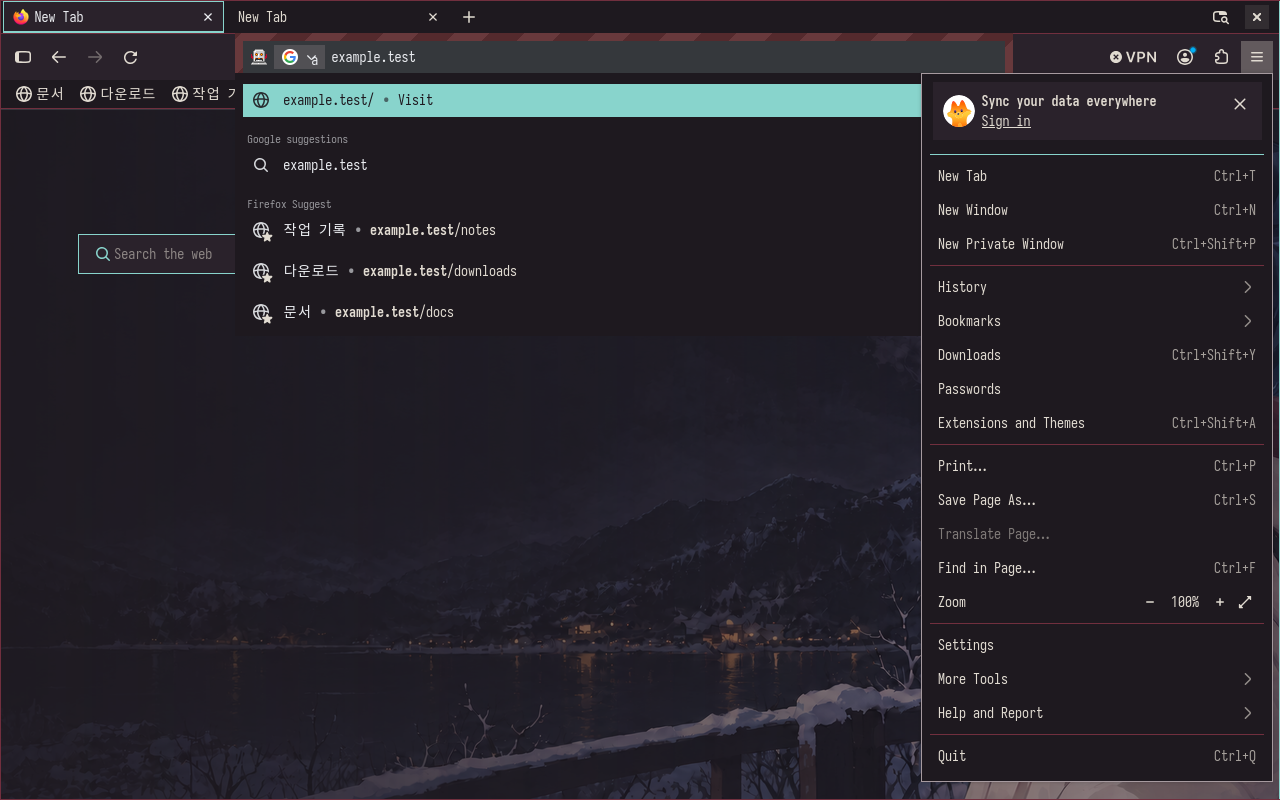
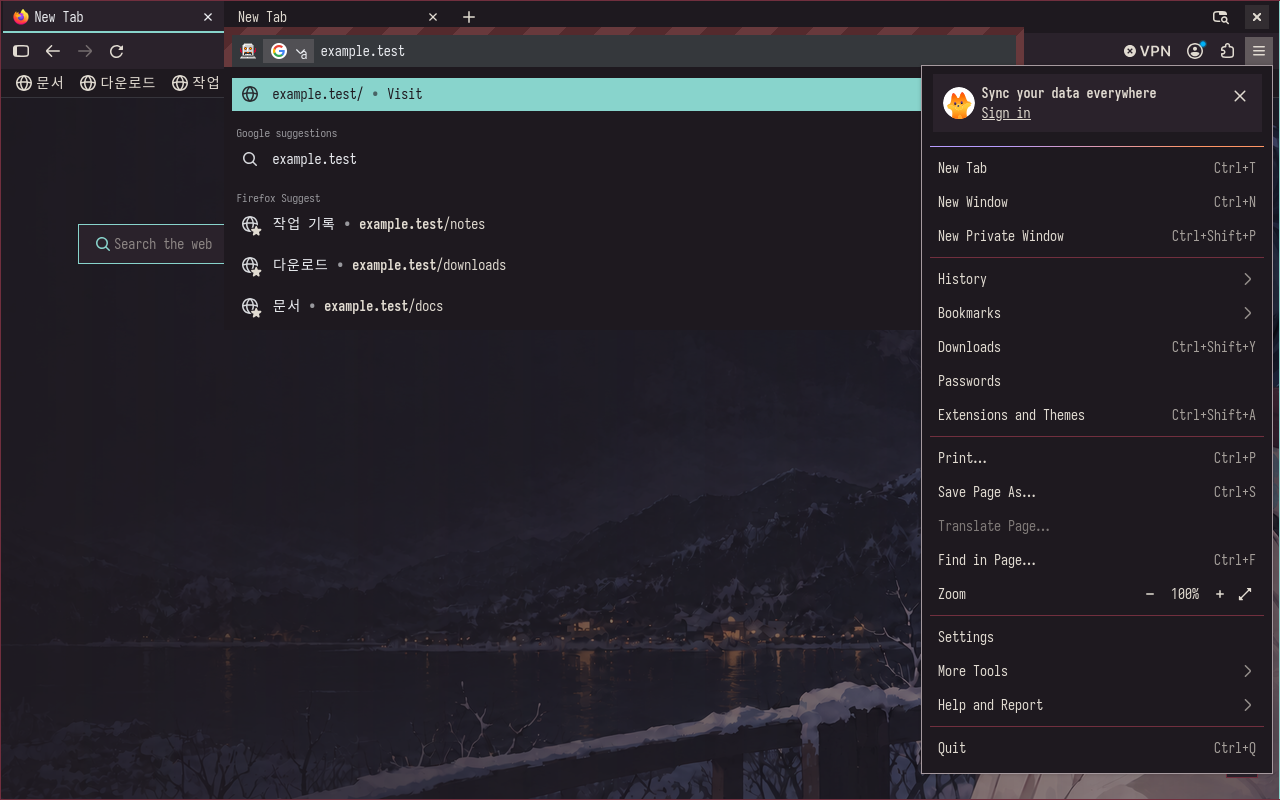
Simplify Firefox chrome borders and compact the navigation bar

diff --git a/yuru/templates/firefox/userChrome.css b/yuru/templates/firefox/userChrome.css
@@ -21,7 +21,10 @@
     --tab-margin-block: 0px !important;
     --tab-box-shadow-selected: none !important;
     --toolbarbutton-border-radius: 0px !important;
-    --toolbarbutton-inner-padding: 6px !important;
+    --toolbarbutton-outline: none !important;
+    --urlbar-height: 32px !important;
+    --urlbar-padding-block: 2px !important;
+    --urlbar-container-padding-block: 2px !important;
     --arrowpanel-border-radius: 0px !important;
     --panel-border-radius: 0px !important;
     --panel-menuitem-border-radius: 0px !important;
@@ -49,8 +52,6 @@
     --tab-text-color-hover: @BRIGHT@ !important;
     --tab-text-color-selected: @BRIGHT@ !important;
     --tab-border-color-selected: @MINT@ !important;
-    --tab-border-color-selected-leading: @MINT@ !important;
-    --tab-border-color-selected-trailing: @MINT@ !important;
     --tab-attention-dot-color: @MINT@ !important;
     --toolbar-field-background-color: @BG@ !important;
     --toolbar-field-background-color-focus: @FOCUS_SURFACE@ !important;
@@ -58,8 +59,8 @@
     --toolbar-field-text-color-focus: @BRIGHT@ !important;
     --lwt-toolbar-field-highlight: @MINT@ !important;
     --lwt-toolbar-field-highlight-text: @BG@ !important;
-    --toolbar-field-border-color: @MUTED@ !important;
-    --toolbar-field-border-color-focus: @MINT@ !important;
+    --toolbar-field-border-color: transparent !important;
+    --toolbar-field-border-color-focus: transparent !important;
     --urlbar-background-color: @BG@ !important;
     --urlbar-background-color-focus: @BG@ !important;
     --urlbarview-background-color-hover: @SURFACE@ !important;
@@ -87,9 +88,13 @@
   }
 
   /* One continuous tab rail. Native pin/close/audio/group behavior is retained. */
+  #navigator-toolbox {
+    border-bottom: 0 !important;
+    box-shadow: none !important;
+  }
   #TabsToolbar {
     background: @BG@ !important;
-    border-bottom: 1px solid @BURGUNDY@ !important;
+    border-bottom: 0 !important;
   }
   #tabbrowser-tabs { padding-block: 0 !important; }
   .tab-background {
@@ -100,6 +105,8 @@
     box-shadow: none !important;
     background-image: none !important;
   }
+  /* Native tabs use outline independently of border. Keep multi-selection visible. */
+  .tab-background:not([multiselected]) { outline: none !important; }
   .tabbrowser-tab:is([selected], [visuallyselected]) .tab-background {
     background-color: @SURFACE@ !important;
     border-bottom-color: @MINT@ !important;
@@ -132,14 +139,16 @@
   #PersonalToolbar .bookmark-item:not([disabled]):hover {
     background-color: @SURFACE@ !important;
   }
-  #navigator-toolbox :is(toolbarbutton, button, input:not(.urlbar-input)):focus-visible {
+  #navigator-toolbox :is(toolbarbutton, button, .urlbar-page-action, input:not(.urlbar-input)):focus-visible {
     outline: 1px solid @MINT@ !important;
     outline-offset: -1px !important;
   }
   #nav-bar {
+    --toolbarbutton-padding-inner: 6px !important;
     background: @SURFACE@ !important;
     border: 0 !important;
-    padding-block: 3px !important;
+    padding-block: 0 !important;
+    min-height: 36px !important;
     box-shadow: none !important;
   }
   #urlbar, #searchbar {
@@ -166,7 +175,7 @@
     background-color: @BG@ !important;
   }
   #urlbar-background, .urlbar-background {
-    border: 1px solid @MUTED@ !important;
+    border: 1px solid transparent !important;
   }
   #urlbar:is([focused], [open], :focus-within) :is(#urlbar-background, .urlbar-background) {
     background-color: @FOCUS_SURFACE@ !important;
@@ -182,7 +191,7 @@
   }
   #PersonalToolbar {
     background: @BG@ !important;
-    border-bottom: 1px solid @BURGUNDY@ !important;
+    border-bottom: 0 !important;
     padding-block: 2px !important;
   }
   #PersonalToolbar .bookmark-item {

diff --git a/yuru/verify_firefox.py b/yuru/verify_firefox.py
@@ -5,6 +5,7 @@ Only the test process enables Marionette on loopback. No live profile, tabs,
 preferences, browser login or desktop session are touched.
 """
 import json
+from datetime import date
 import os
 from pathlib import Path
 import shutil
@@ -162,20 +163,39 @@ def main():
                   const tab = document.querySelector('.tabbrowser-tab[selected] .tab-background');
                   const label = document.querySelector('.tabbrowser-tab[selected] .tab-label');
                   const field = document.querySelector('#urlbar-background, .urlbar-background');
+                  const action = document.querySelector('#star-button-box');
                   return {tabRadius:getComputedStyle(tab).borderTopLeftRadius,
                     tabBorder:getComputedStyle(tab).borderBottomColor,
+                    tabOutline:getComputedStyle(tab).outlineStyle,
+                    tabTopBorder:getComputedStyle(tab).borderTopWidth,
                     urlbarRadius:getComputedStyle(field).borderTopLeftRadius,
+                    urlbarBorder:getComputedStyle(field).borderColor,
+                    actionOutline:getComputedStyle(action).outlineStyle,
                     font:getComputedStyle(label).fontFamily,
                     tabHeight:document.querySelector('#TabsToolbar').getBoundingClientRect().height,
+                    navHeight:document.querySelector('#nav-bar').getBoundingClientRect().height,
                     toolboxHeight:document.querySelector('#navigator-toolbox').getBoundingClientRect().height,
                     bookmarkRadius:getComputedStyle(document.querySelector('#PersonalToolbar toolbarbutton.bookmark-item:not(#bookmarks-toolbar-placeholder)')).borderRadius,
                     backAppearance:getComputedStyle(document.querySelector('#back-button')).appearance};
                 ''')
                 assert values['tabRadius'] == values['urlbarRadius'] == '0px', values
                 assert values['tabBorder'] == 'rgb(136, 212, 204)', values
+                assert values['tabOutline'] == values['actionOutline'] == 'none', values
+                assert values['tabTopBorder'] == '0px', values
+                assert values['urlbarBorder'] == 'rgba(0, 0, 0, 0)', values
+                assert values['tabHeight'] == 32 and 36 <= values['navHeight'] <= 40, values
                 assert 'Sarasa Mono K' in values['font'], values
                 assert values['bookmarkRadius'] == '0px', values
                 assert values['backAppearance'] == 'none', values
+                # Flatten idle chrome without losing the multi-selection marker.
+                controls = client.script('''
+                  const tab = gBrowser.selectedTab;
+                  gBrowser.addToMultiSelectedTabs(tab);
+                  const multiOutline = getComputedStyle(tab.querySelector('.tab-background')).outlineStyle;
+                  gBrowser.clearMultiSelectedTabs();
+                  return {multiOutline};
+                ''')
+                assert controls['multiOutline'] == 'solid', controls
                 client.call('Marionette:SetContext', {'value': 'content'})
                 wait_until(lambda: client.script('return document.querySelector("button") !== null;'))
                 content = client.script('return {font:getComputedStyle(document.body).fontFamily, radius:getComputedStyle(document.querySelector("button")).borderRadius};')
@@ -223,7 +243,8 @@ def main():
                 assert focus['input']['caret'] == 'rgb(136, 212, 204)', focus
                 assert all(v['outline'] == 'none' for v in focus.values()), focus
                 assert focus['background']['borderColor'] == 'rgba(0, 0, 0, 0)', focus
-                records.append({'startup': attempt + 1, 'chrome': values, 'content': content, 'newtab': newtab, 'focus':focus})
+                records.append({'startup': attempt + 1, 'chrome': values, 'controls': controls,
+                                'content': content, 'newtab': newtab, 'focus':focus})
                 if attempt == 1:
                     client.call('WebDriver:DeleteSession')
                     client.socket.close()
@@ -245,7 +266,7 @@ def main():
             ordinary_env.pop('MOZ_REMOTE_ALLOW_SYSTEM_ACCESS')
             browser_log = (temporary / 'firefox-ordinary.log').open('w+')
             browser = subprocess.Popen(['/usr/bin/firefox', '--no-remote', '--profile', str(profile),
-                                        '--new-window', 'about:newtab'],
+                                        '--new-window', page.as_uri()],
                                        env=ordinary_env, stdout=browser_log, stderr=browser_log,
                                        start_new_session=True, preexec_fn=child_limits)
             time.sleep(3)
@@ -259,16 +280,20 @@ def main():
                 pass
             height = min(200, round(records[-1]['chrome']['toolboxHeight']) + 2)
             run(['grim', '-g', f'0,0 1280x{height}', str(artifacts / 'native-firefox.png')], env)
+            # Leave the virtual keyboard alive until Firefox consumes the keys.
+            run(['/usr/bin/wtype', '-s', '100', '-M', 'ctrl', '-k', 'l', '-m', 'ctrl',
+                 '-s', '100', 'about:newtab', '-k', 'Return', '-s', '500'], env)
+            time.sleep(1)
             run(['grim', '-o', 'HEADLESS-1', str(artifacts / 'native-firefox-newtab.png')], env)
             # Real keyboard focus/popup capture, with no automation warning.
             # Keep the virtual keyboard connected during capture. On an otherwise
             # input-less headless seat, removing it also clears browser focus.
-            keyboard = subprocess.Popen(['/usr/bin/wtype', '-M', 'ctrl', '-k', 'l', '-m', 'ctrl',
-                                         '문서', '-s', '2000'], env=env,
+            keyboard = subprocess.Popen(['/usr/bin/wtype', '-s', '100', '-M', 'ctrl', '-k', 'l', '-m', 'ctrl',
+                                         '-s', '100', '문서', '-s', '2000'], env=env,
                                         stdout=subprocess.DEVNULL, stderr=subprocess.PIPE,
                                         start_new_session=True, preexec_fn=child_limits)
             try:
-                time.sleep(.35)
+                time.sleep(.7)
                 if keyboard.poll() is not None:
                     raise RuntimeError(keyboard.stderr.read().decode())
                 run(['grim', '-o', 'HEADLESS-1', str(artifacts / 'native-firefox-focus.png')], env)
@@ -278,7 +303,7 @@ def main():
             run(['swaymsg', 'output HEADLESS-1 mode 800x1100'], env)
             time.sleep(.7)
             run(['grim', '-o', 'HEADLESS-1', str(artifacts / 'native-firefox-newtab-portrait.png')], env)
-            (artifacts / 'firefox.json').write_text(json.dumps({'date': '2026-10-31',
+            (artifacts / 'firefox.json').write_text(json.dumps({'date': date.today().isoformat(),
                 'firefox': '158.0.1', 'scope': 'disposable profile; two native startups; local fixture and built-in New Tab',
                 'newtab_capture_sizes': [[1280,800], [800,1100]],
                 'normal_startup_capture': True, 'live_profile_restart': False, 'results': records}, indent=2) + '\n')
